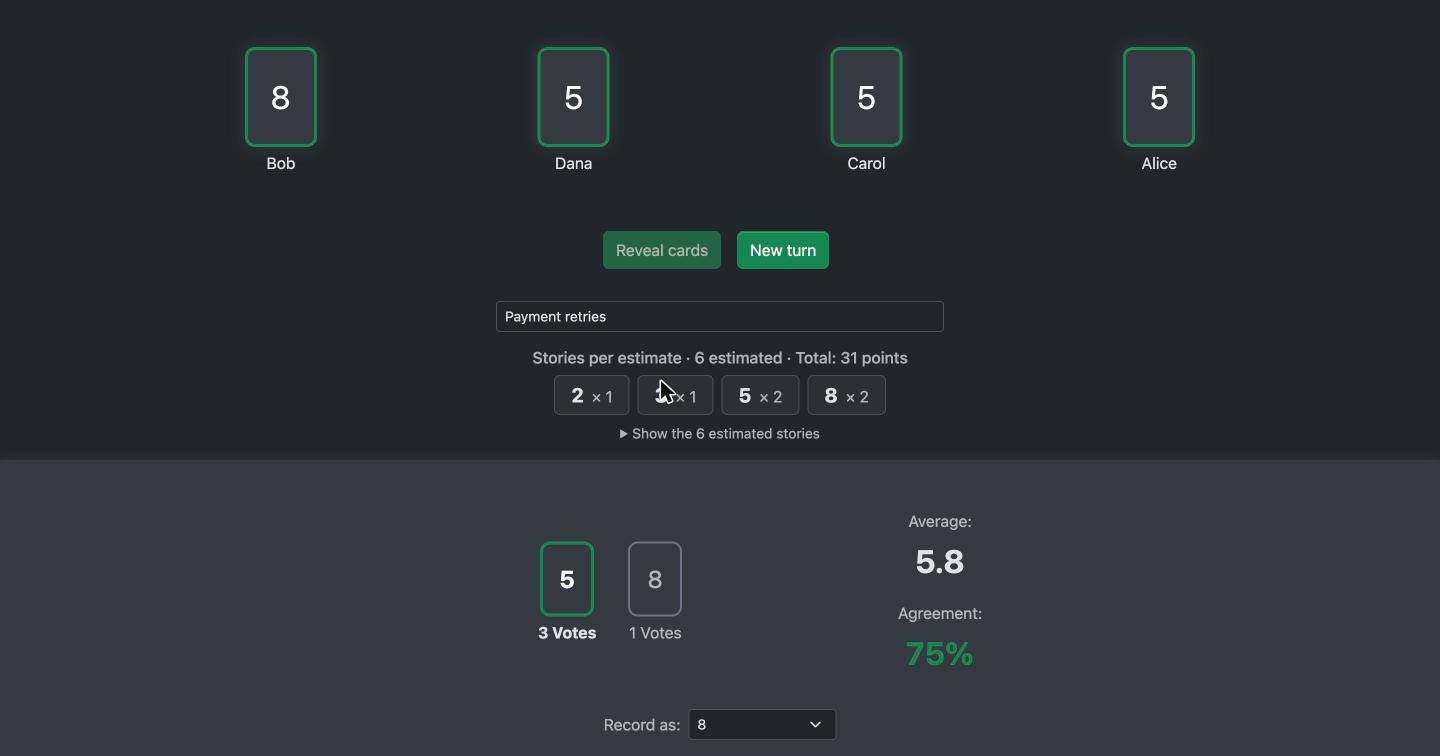
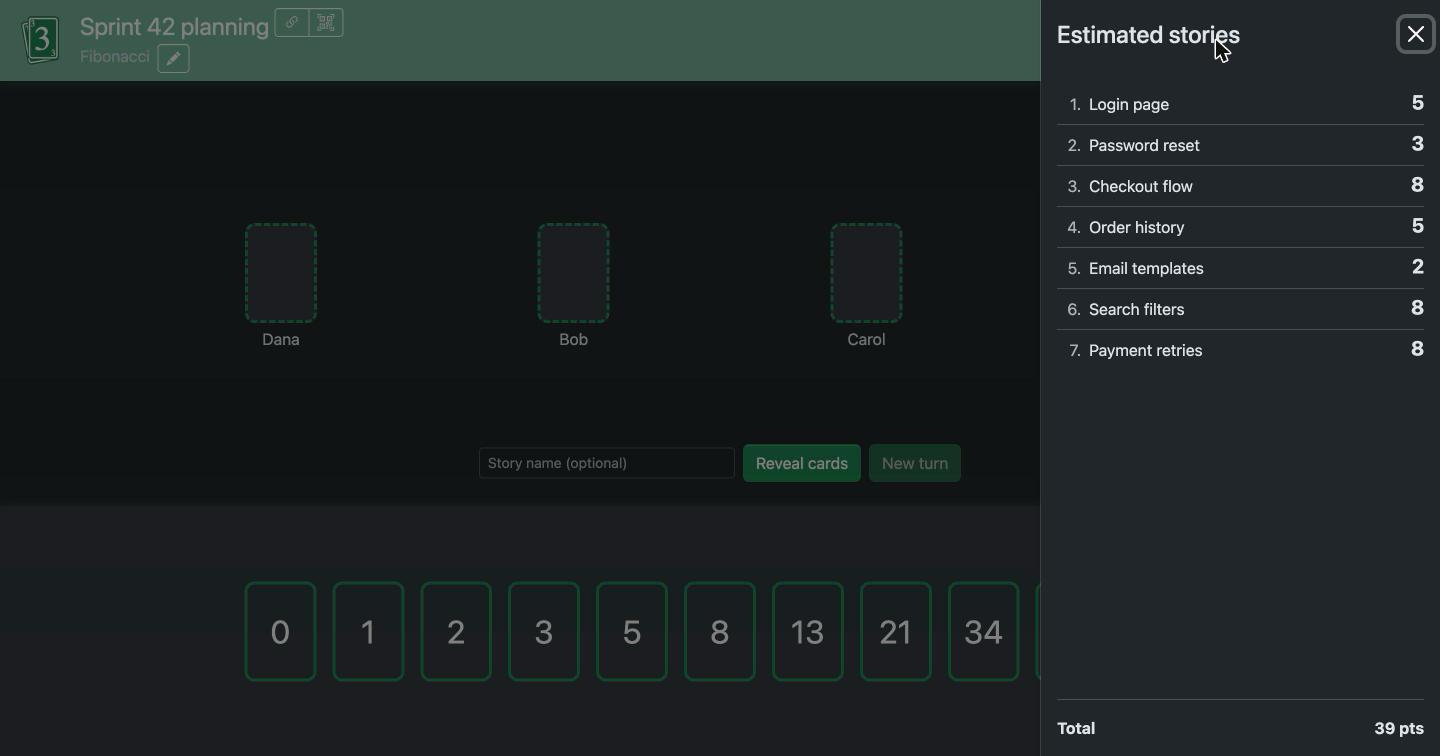
Show estimated stories in a navbar panel instead of the per-estimate counts; story name next to the buttons

diff --git a/angular/src/app/navigation-bar/stories/nav-stories.component.html b/angular/src/app/navigation-bar/stories/nav-stories.component.html
@@ -1,0 +1,49 @@
+<ng-template #stories let-offcanvas>
+  <ng-container *transloco="let t; read 'stories'">
+    @if (view$ | async; as view) {
+      <div class="offcanvas-header">
+        <h4 class="offcanvas-title" id="stories-title">{{ t('title') }}</h4>
+        <button type="button" class="btn-close" [attr.aria-label]="t('close')" (click)="offcanvas.dismiss('close')"></button>
+      </div>
+      <div class="offcanvas-body d-flex flex-column">
+        @if (view.stories.length === 0) {
+          <p class="text-muted">{{ t('empty') }}</p>
+        } @else {
+          <ol class="list-group list-group-flush mb-3">
+            @for (story of view.stories; track $index) {
+              <li class="list-group-item d-flex align-items-start gap-2 px-0">
+                <span class="text-muted text-end flex-shrink-0" style="min-width: 1.5rem">{{ $index + 1 }}.</span>
+                <span class="me-auto text-break">{{ story.name || t('unnamed') }}</span>
+                <span class="fw-bold fs-5 lh-1">{{ story.display }}</span>
+              </li>
+            }
+          </ol>
+        }
+        @if (view.showPoints && view.stories.length > 0) {
+          <div class="mt-auto border-top pt-3 d-flex justify-content-between fw-bold">
+            <span>{{ t('total') }}</span>
+            <span>{{ t('points', { count: view.total }) }}</span>
+          </div>
+        }
+      </div>
+    }
+  </ng-container>
+</ng-template>
+
+<ng-container *transloco="let t; read 'stories'">
+  @if (view$ | async; as view) {
+    <button type="button" class="btn btn-outline-light btn-sm me-2"
+            [attr.aria-label]="t('open', { count: view.stories.length })"
+            [ngbTooltip]="t('title')"
+            placement="bottom"
+            (click)="open(stories)">
+      <svg class="bi" width="1em" height="1em" fill="currentColor" aria-hidden="true">
+        <use xlink:href="assets/bootstrap-icons.svg#list-check"/>
+      </svg>
+      <span class="ms-1">{{ view.stories.length }}</span>
+      @if (view.showPoints && view.stories.length > 0) {
+        <span class="d-none d-sm-inline ms-1">· {{ t('points', { count: view.total }) }}</span>
+      }
+    </button>
+  }
+</ng-container>

diff --git a/angular/src/app/navigation-bar/stories/nav-stories.component.ts b/angular/src/app/navigation-bar/stories/nav-stories.component.ts
@@ -1,0 +1,51 @@
+import { ChangeDetectionStrategy, Component, TemplateRef } from '@angular/core';
+import { AsyncPipe } from '@angular/common';
+import { NgbOffcanvas, NgbTooltip } from '@ng-bootstrap/ng-bootstrap';
+import { TranslocoDirective } from '@jsverse/transloco';
+import { map, Observable } from 'rxjs';
+import { CurrentGameService } from '../../ongoing-game/current-game.service';
+import { decksDict, displayCardValue } from '../../model/deck';
+
+interface StoryRow {
+  name: string;
+  display: string | number;
+}
+
+interface StoriesView {
+  stories: StoryRow[];
+  total: number;
+  /** Adding up t-shirt sizes makes no sense */
+  showPoints: boolean;
+}
+
+/** Navbar button showing how many stories were estimated, opening the list of their estimates */
+@Component({
+  standalone: true,
+  selector: 'shpp-nav-stories',
+  templateUrl: './nav-stories.component.html',
+  changeDetection: ChangeDetectionStrategy.Eager,
+  imports: [TranslocoDirective, AsyncPipe, NgbTooltip]
+})
+export class NavStoriesComponent {
+  view$: Observable<StoriesView>;
+
+  constructor(currentGameService: CurrentGameService, private offcanvasService: NgbOffcanvas) {
+    this.view$ = currentGameService.gameInfo$.pipe(
+      map((info) => {
+        const deck = info ? decksDict[info.deck] : undefined;
+        return {
+          stories: (info?.history ?? []).map((entry) => ({
+            name: entry.name,
+            display: (deck && displayCardValue(deck, entry.estimate)) ?? entry.estimate
+          })),
+          total: info?.total ?? 0,
+          showPoints: !!deck && !deck.textValues
+        };
+      })
+    );
+  }
+
+  open(content: TemplateRef<unknown>): void {
+    this.offcanvasService.open(content, { ariaLabelledBy: 'stories-title', position: 'end' });
+  }
+}

diff --git a/angular/src/app/ongoing-game/ongoing-game-page.component.ts b/angular/src/app/ongoing-game/ongoing-game-page.component.ts
@@ -7,11 +7,10 @@ import { CardPickerComponent } from './card-picker/card-picker.component';
 import { TurnSummaryComponent } from './turn-summary/turn-summary.component';
 
 import { CardTableComponent } from './card-table/card-table.component';
+import { NavStoriesComponent } from '../navigation-bar/stories/nav-stories.component';
 import { NavPlayerInfoComponent } from '../navigation-bar/player-info/nav-player-info.component';
 import { NavGameInfoComponent } from '../navigation-bar/game-info/nav-game-info.component';
 import { NavGameNameComponent } from '../navigation-bar/game-name/nav-game-name.component';
-import { StoryNameComponent } from './story-name/story-name.component';
-import { EstimatesSummaryComponent } from './estimates-summary/estimates-summary.component';
 import { ContainerComponent } from '../shared/container/container.component';
 
 @Component({
@@ -24,10 +23,9 @@ import { ContainerComponent } from '../shared/container/container.component';
     ContainerComponent,
     NavGameNameComponent,
     NavGameInfoComponent,
+    NavStoriesComponent,
     NavPlayerInfoComponent,
     CardTableComponent,
-    StoryNameComponent,
-    EstimatesSummaryComponent,
     TurnSummaryComponent,
     CardPickerComponent
 ]

diff --git a/angular/src/app/ongoing-game/story-name/story-name.component.ts b/angular/src/app/ongoing-game/story-name/story-name.component.ts
@@ -11,14 +11,13 @@ import { CurrentGameService } from '../current-game.service';
   imports: [TranslocoDirective, AsyncPipe],
   changeDetection: ChangeDetectionStrategy.Eager,
   template: `
-    <div class="container pb-3" *transloco="let t; read 'story'">
-      <input #input type="text" class="form-control form-control-sm mx-auto" style="max-width: 28rem" maxlength="100"
-             [attr.aria-label]="t('label')"
-             [placeholder]="t('placeholder')"
-             [value]="(story$ | async) ?? ''"
-             (change)="save(input.value)"
-             (keyup.enter)="input.blur()">
-    </div>
+    <input #input type="text" class="form-control form-control-sm" maxlength="100"
+           *transloco="let t; read 'story'"
+           [attr.aria-label]="t('label')"
+           [placeholder]="t('placeholder')"
+           [value]="(story$ | async) ?? ''"
+           (change)="save(input.value)"
+           (keyup.enter)="input.blur()">
   `
 })
 export class StoryNameComponent {

diff --git a/angular/src/app/ongoing-game/card-table/card-table.component.ts b/angular/src/app/ongoing-game/card-table/card-table.component.ts
@@ -3,6 +3,7 @@ import { GameState } from '../../model/events';
 import { Subscription } from 'rxjs';
 import { Deck } from '../../model/deck';
 import { CurrentGameService } from '../current-game.service';
+import { StoryNameComponent } from '../story-name/story-name.component';
 import { PlayerHandComponent } from './player-hand/player-hand.component';
 import { KeyValuePipe } from '@angular/common';
 import { TranslocoDirective } from '@jsverse/transloco';
@@ -13,7 +14,7 @@ import { TranslocoDirective } from '@jsverse/transloco';
     styleUrls: ['./card-table.component.scss'],
     standalone: true,
     changeDetection: ChangeDetectionStrategy.Eager,
-    imports: [TranslocoDirective, PlayerHandComponent, KeyValuePipe]
+    imports: [TranslocoDirective, PlayerHandComponent, KeyValuePipe, StoryNameComponent]
 })
 export class CardTableComponent implements OnDestroy {
   state: GameState = {}

diff --git a/angular/src/app/ongoing-game/card-table/card-table.component.html b/angular/src/app/ongoing-game/card-table/card-table.component.html
@@ -6,7 +6,8 @@
     </shpp-player-hand>
   }
 </div>
-<div class="d-flex justify-content-center mb-4" *transloco="let t; read 'buttons'">
-  <button class="btn btn-primary m-2 ms-0" (click)="revealCards()" [disabled]="!canReveal" >{{ t('reveal') }}</button>
-  <button class="btn btn-primary m-2" (click)="endTurn()" [disabled]="canReveal">{{ t('newTurn') }}</button>
+<div class="d-flex justify-content-center align-items-center flex-wrap gap-2 mb-4 px-3" *transloco="let t; read 'buttons'">
+  <shpp-story-name class="story-name" />
+  <button class="btn btn-primary" (click)="revealCards()" [disabled]="!canReveal" >{{ t('reveal') }}</button>
+  <button class="btn btn-primary" (click)="endTurn()" [disabled]="canReveal">{{ t('newTurn') }}</button>
 </div>

diff --git a/angular/src/app/ongoing-game/ongoing-game-page.component.html b/angular/src/app/ongoing-game/ongoing-game-page.component.html
@@ -4,13 +4,12 @@
       <shpp-game-name class="d-flex" />
       <shpp-game-info class="d-flex" />
     </div>
+    <shpp-nav-stories />
     <shpp-nav-player-info />
   </ng-container>
 
   <ng-container content>
     <shpp-card-table class="flex-grow-1" />
-    <shpp-story-name />
-    <shpp-estimates-summary />
     @if (showSummary) {
       <shpp-turn-summary class="bg-body-secondary" />
     }

diff --git a/angular/src/app/ongoing-game/card-table/card-table.component.scss b/angular/src/app/ongoing-game/card-table/card-table.component.scss
@@ -2,3 +2,8 @@
   display: flex;
   flex-direction: column;
 }
+
+.story-name {
+  flex: 0 1 16rem;
+  min-width: 10rem;
+}

diff --git a/README.md b/README.md
@@ -24,9 +24,9 @@ It features:
   * Vote summary
   * Dark theme (follows your system by default, switchable from the navigation bar)
   * Story names: give the story being estimated a name, shared with all the players
-  * Stories per estimate: each time you finish a round with "New turn", the story's estimate is recorded and the totals
-    (number of stories per estimate and total points, except for T-shirt sizes) are shown on the game page, with the list of
-    the estimated stories. By default the most-picked card is recorded (the highest one on a tie), but once the cards are
+  * Estimated stories: each time you finish a round with "New turn", the story's estimate is recorded. The list of the
+    estimated stories with their estimates, and the total points (except for T-shirt sizes), is one click away in the
+    navigation bar. By default the most-picked card is recorded (the highest one on a tie), but once the cards are
     revealed anyone can pick another value or choose not to record the round. The history is kept in memory: it is reset
     when the deck is changed or the server restarts.
   * Translations _(inherited from the original project; new strings of this fork are English only and fall back to English)_
@@ -36,7 +36,7 @@ It does not have fancy features like issues management, Jira integration or time
 ## Screenshots
 <a href="assets/screenshot.png"><img alt="Application screenshot with cards face down" src="assets/screenshot.png" width="412px"></a>
 <a href="assets/screenshot-revealed.png"><img alt="Application screenshot with cards revealed" src="assets/screenshot-revealed.png" width="412px"></a>
-<a href="assets/screenshot-dark.png"><img alt="Application screenshot with the dark theme and a different final estimate chosen" src="assets/screenshot-dark.png" width="412px"></a>
+<a href="assets/screenshot-dark.png"><img alt="Application screenshot with the dark theme and the list of estimated stories" src="assets/screenshot-dark.png" width="412px"></a>
 
 ## Deployment
 
